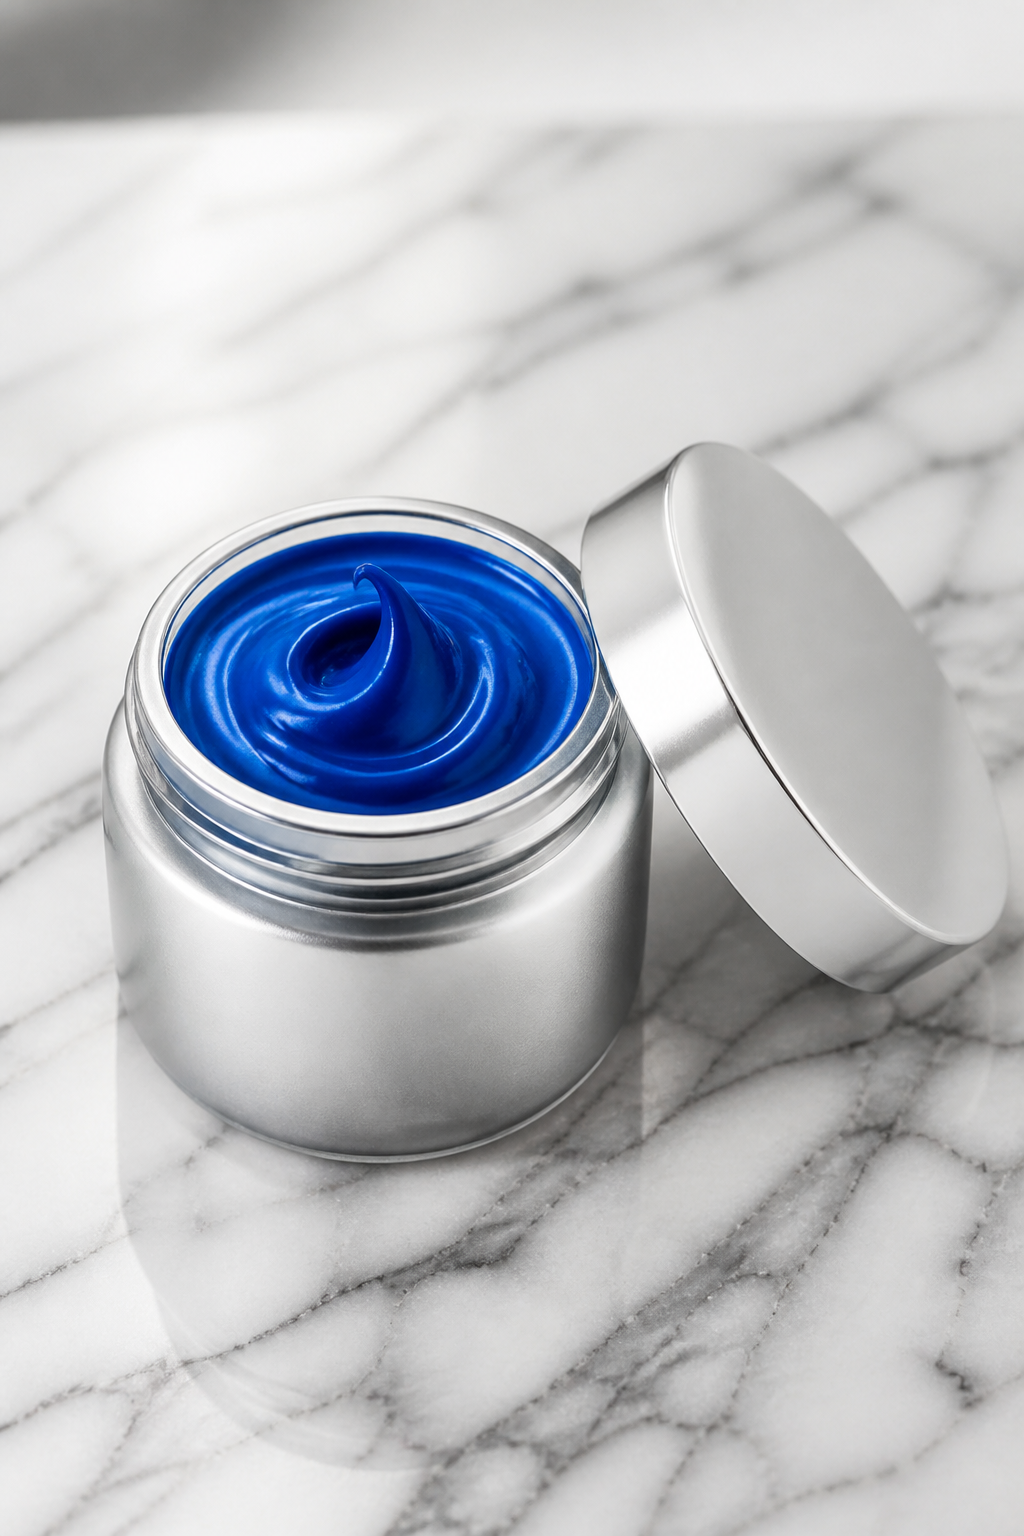
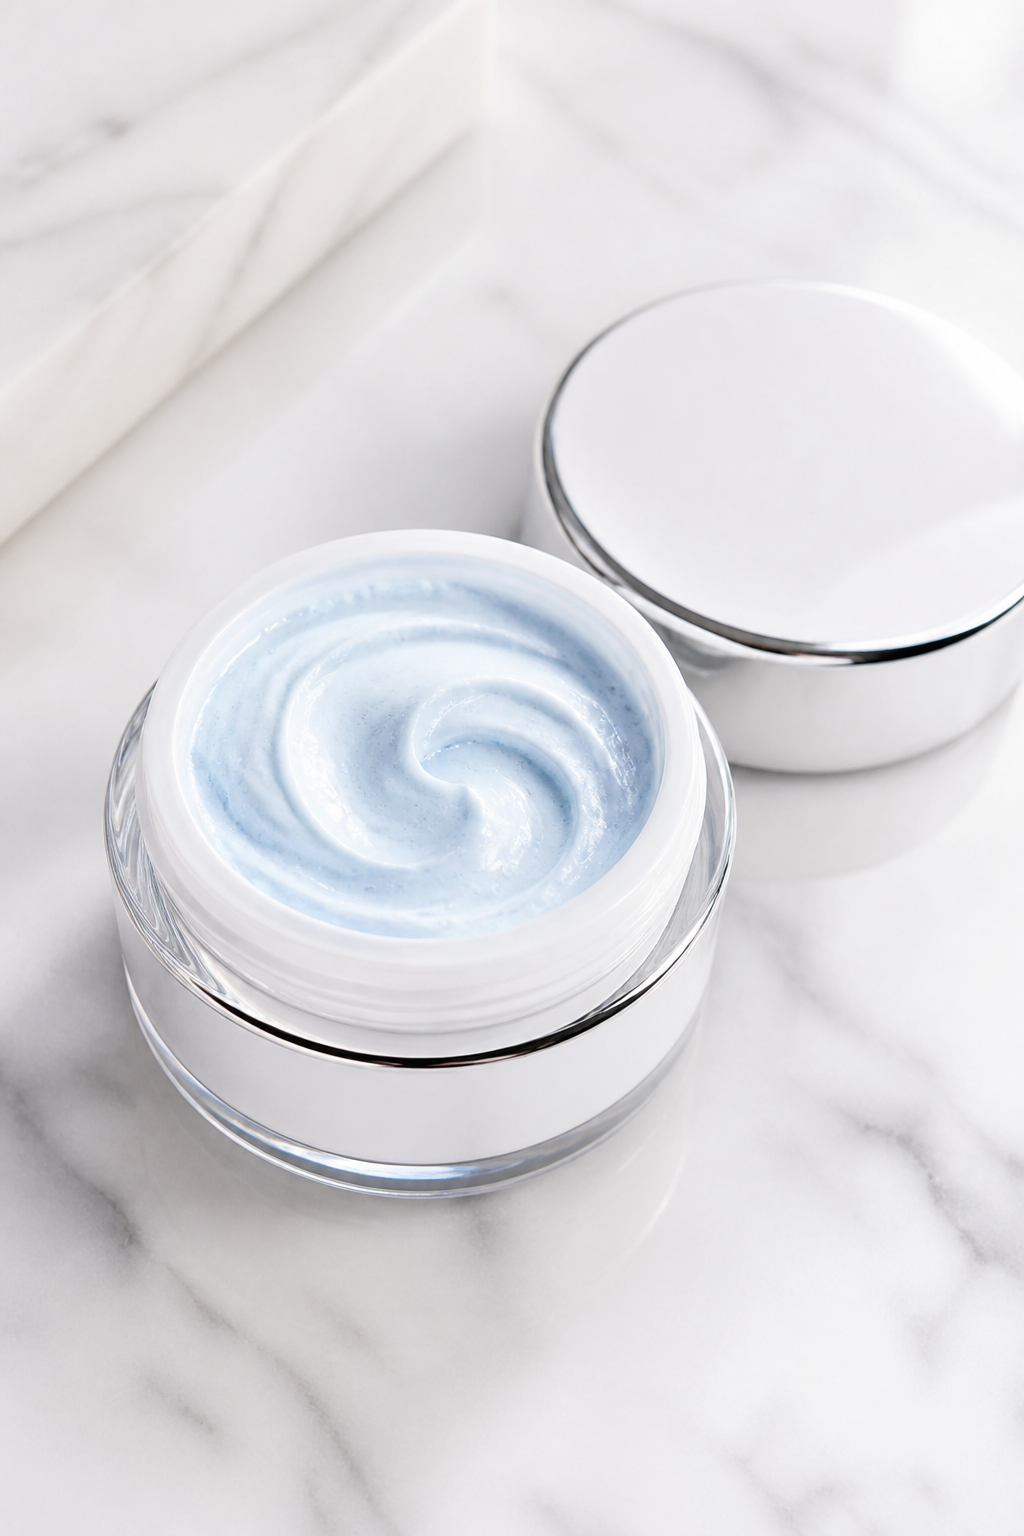
Simplify Fresh Mix imagery and lighten cream to powder blue
Remove the crowded multi-image stack from flagship, keep one hero
product shot, move before/after plus mix video into How it works, and
refresh the cream base to a soft powder-blue open jar.

diff --git a/src/components/SkincareHome.jsx b/src/components/SkincareHome.jsx
@@ -188,18 +188,6 @@ export default function SkincareHome({
             </div>
           </div>
 
-          <div className="sk-vehicle-gallery">
-            {SERUM_BASES.map((b, i) => (
-              <figure key={b.id} className={i === 0 ? "is-main" : undefined}>
-                <img src={b.image} alt={b.name} loading="lazy" />
-                <figcaption>
-                  <strong>{b.name}</strong>
-                  <span>{b.form === "cream" ? "Cream base" : "Serum base"}</span>
-                </figcaption>
-              </figure>
-            ))}
-          </div>
-
           <article className="flagship-mix fade">
             <div className="flagship-mix-media-col">
               <button
@@ -213,23 +201,6 @@ export default function SkincareHome({
                   className="flagship-mix-img"
                 />
               </button>
-              <img
-                src="/skincare/buffet-serum-mixed.png"
-                alt="After activation: GHK-Cu mixed into the serum, dropper seated"
-                className="flagship-mix-howto"
-              />
-              <video
-                className="flagship-mix-video"
-                controls
-                muted
-                playsInline
-                loop
-                preload="metadata"
-                poster="/skincare/buffet-serum-mixing.png"
-              >
-                <source src="/skincare/mix-activation.mp4" type="video/mp4" />
-              </video>
-              <p className="flagship-mix-video-caption">Twist. Mix. Ready.</p>
             </div>
             <div className="flagship-mix-body">
               <p className="section-kicker">Flagship</p>
@@ -292,6 +263,32 @@ export default function SkincareHome({
                 <p>{item.copy}</p>
               </div>
             ))}
+          </div>
+          <div className="sk-mix-demo">
+            <div className="sk-mix-demo-stills">
+              <figure>
+                <img src="/skincare/buffet-serum.png" alt="Before: dry powder in the twist-cap" />
+                <figcaption>Before</figcaption>
+              </figure>
+              <figure>
+                <img
+                  src="/skincare/buffet-serum-mixed.png"
+                  alt="After: powder mixed into the serum"
+                />
+                <figcaption>After</figcaption>
+              </figure>
+            </div>
+            <video
+              className="sk-mix-demo-video"
+              controls
+              muted
+              playsInline
+              loop
+              preload="metadata"
+              poster="/skincare/buffet-serum-mixing.png"
+            >
+              <source src="/skincare/mix-activation.mp4" type="video/mp4" />
+            </video>
           </div>
         </div>
       </section>

diff --git a/src/index.css b/src/index.css
@@ -2569,52 +2569,73 @@ body:has(.app-shell--skincare) {
 }
 
 .sk-vehicle-gallery {
-  display: grid;
-  grid-template-columns: 1.35fr 1fr 1fr;
-  gap: 0.75rem;
-  margin: 0 0 1.75rem;
+  display: none;
 }
 
-.sk-vehicle-gallery figure {
+.sk-mix-demo {
+  margin-top: 1.75rem;
+  display: grid;
+  grid-template-columns: 1.1fr 0.9fr;
+  gap: 1rem;
+  align-items: start;
+}
+
+.sk-mix-demo-stills {
+  display: grid;
+  grid-template-columns: 1fr 1fr;
+  gap: 0.65rem;
+}
+
+.sk-mix-demo-stills figure {
   margin: 0;
   border: 1px solid rgba(0, 47, 117, 0.08);
-  background: #f3f6fa;
-  overflow: hidden;
+  background: #fff;
 }
 
-.sk-vehicle-gallery img {
+.sk-mix-demo-stills img {
   width: 100%;
   aspect-ratio: 3 / 4;
   object-fit: cover;
   display: block;
 }
 
-.sk-vehicle-gallery figcaption {
-  display: grid;
-  gap: 0.15rem;
-  padding: 0.7rem 0.8rem 0.85rem;
-  background: #fff;
-}
-
-.sk-vehicle-gallery figcaption strong {
-  font-family: var(--font-brand);
-  font-size: 1.05rem;
-  font-weight: 600;
-}
-
-.sk-vehicle-gallery figcaption span {
-  font-size: 0.78rem;
-  letter-spacing: 0.08em;
+.sk-mix-demo-stills figcaption {
+  padding: 0.55rem 0.7rem;
+  font-size: 0.72rem;
+  letter-spacing: 0.14em;
   text-transform: uppercase;
   color: var(--muted);
 }
 
-.sk-vehicle-gallery .is-main {
-  border-color: rgba(0, 71, 171, 0.28);
+.sk-mix-demo-video {
+  width: 100%;
+  display: block;
+  border: 1px solid rgba(0, 47, 117, 0.08);
+  background: #0a0a0a;
+  max-height: 420px;
+  object-fit: cover;
+}
+
+.skin-product-video-wrap {
+  border: 1px solid var(--line);
+  padding: 0.65rem 0.75rem;
+  background: #fff;
+}
+
+.skin-product-video-wrap summary {
+  cursor: pointer;
+  font-size: 0.78rem;
+  letter-spacing: 0.1em;
+  text-transform: uppercase;
+  color: var(--cobalt);
+}
+
+.skin-product-video-wrap[open] summary {
+  margin-bottom: 0.55rem;
 }
 
 @media (max-width: 800px) {
-  .sk-vehicle-gallery {
+  .sk-mix-demo {
     grid-template-columns: 1fr;
   }
 }

diff --git a/src/App.jsx b/src/App.jsx
@@ -901,7 +901,7 @@ export default function App() {
                         <span className="skin-bottle-body" />
                       </div>
                     )}
-                    {skinProduct.gallery?.[1] && (
+                    {skinProduct.gallery?.[1] && skinProduct.gallery[1] !== skinProduct.image && (
                       <img
                         src={skinProduct.gallery[1]}
                         alt="After mixing: peptide activated into the base"
@@ -909,17 +909,20 @@ export default function App() {
                       />
                     )}
                     {skinProduct.video && (
-                      <video
-                        className="skin-product-video"
-                        controls
-                        muted
-                        playsInline
-                        loop
-                        preload="metadata"
-                        poster={skinProduct.videoPoster || skinProduct.gallery?.[1]}
-                      >
-                        <source src={skinProduct.video} type="video/mp4" />
-                      </video>
+                      <details className="skin-product-video-wrap">
+                        <summary>Watch mix activation</summary>
+                        <video
+                          className="skin-product-video"
+                          controls
+                          muted
+                          playsInline
+                          loop
+                          preload="metadata"
+                          poster={skinProduct.videoPoster || skinProduct.gallery?.[1]}
+                        >
+                          <source src={skinProduct.video} type="video/mp4" />
+                        </video>
+                      </details>
                     )}
                   </div>
                   <div className="detail-info">

diff --git a/src/data/skincare.js b/src/data/skincare.js
@@ -140,7 +140,7 @@ export const SERUM_BASES = [
     price: 32,
     image: "/skincare/peptide-cream.png",
     blurb:
-      "Silken moisture cream vehicle. Mix dry peptides into a leave-on cream instead of a dropper serum.",
+      "Silken moisture cream in a soft powder-blue finish. Mix dry peptides into a leave-on cream instead of a dropper serum.",
     bestFor: "Face cream, richer feel, day or night",
     shelfAfterMix: "Use within 30 days after activation. Keep cool and dark. Refrigerate if GHK-Cu included.",
   },
@@ -322,8 +322,8 @@ export function buildSerumProduct({
       hasGhk && !isCream
         ? ["/skincare/buffet-serum.png", "/skincare/buffet-serum-mixed.png"]
         : isCream
-          ? ["/skincare/peptide-cream.png", "/skincare/buffet-serum-mixed.png"]
-          : [base.image, "/skincare/buffet-serum-mixed.png"],
+          ? ["/skincare/peptide-cream.png"]
+          : [base.image],
     video: hasGhk && !isCream ? "/skincare/mix-activation.mp4" : null,
     videoPoster: hasGhk && !isCream ? "/skincare/buffet-serum-mixing.png" : null,
     blurb: `Your mix: ${names.join(" + ")} in ${base.name}. Dry peptides stay sealed until you activate into the ${vehicleWord}.`,
